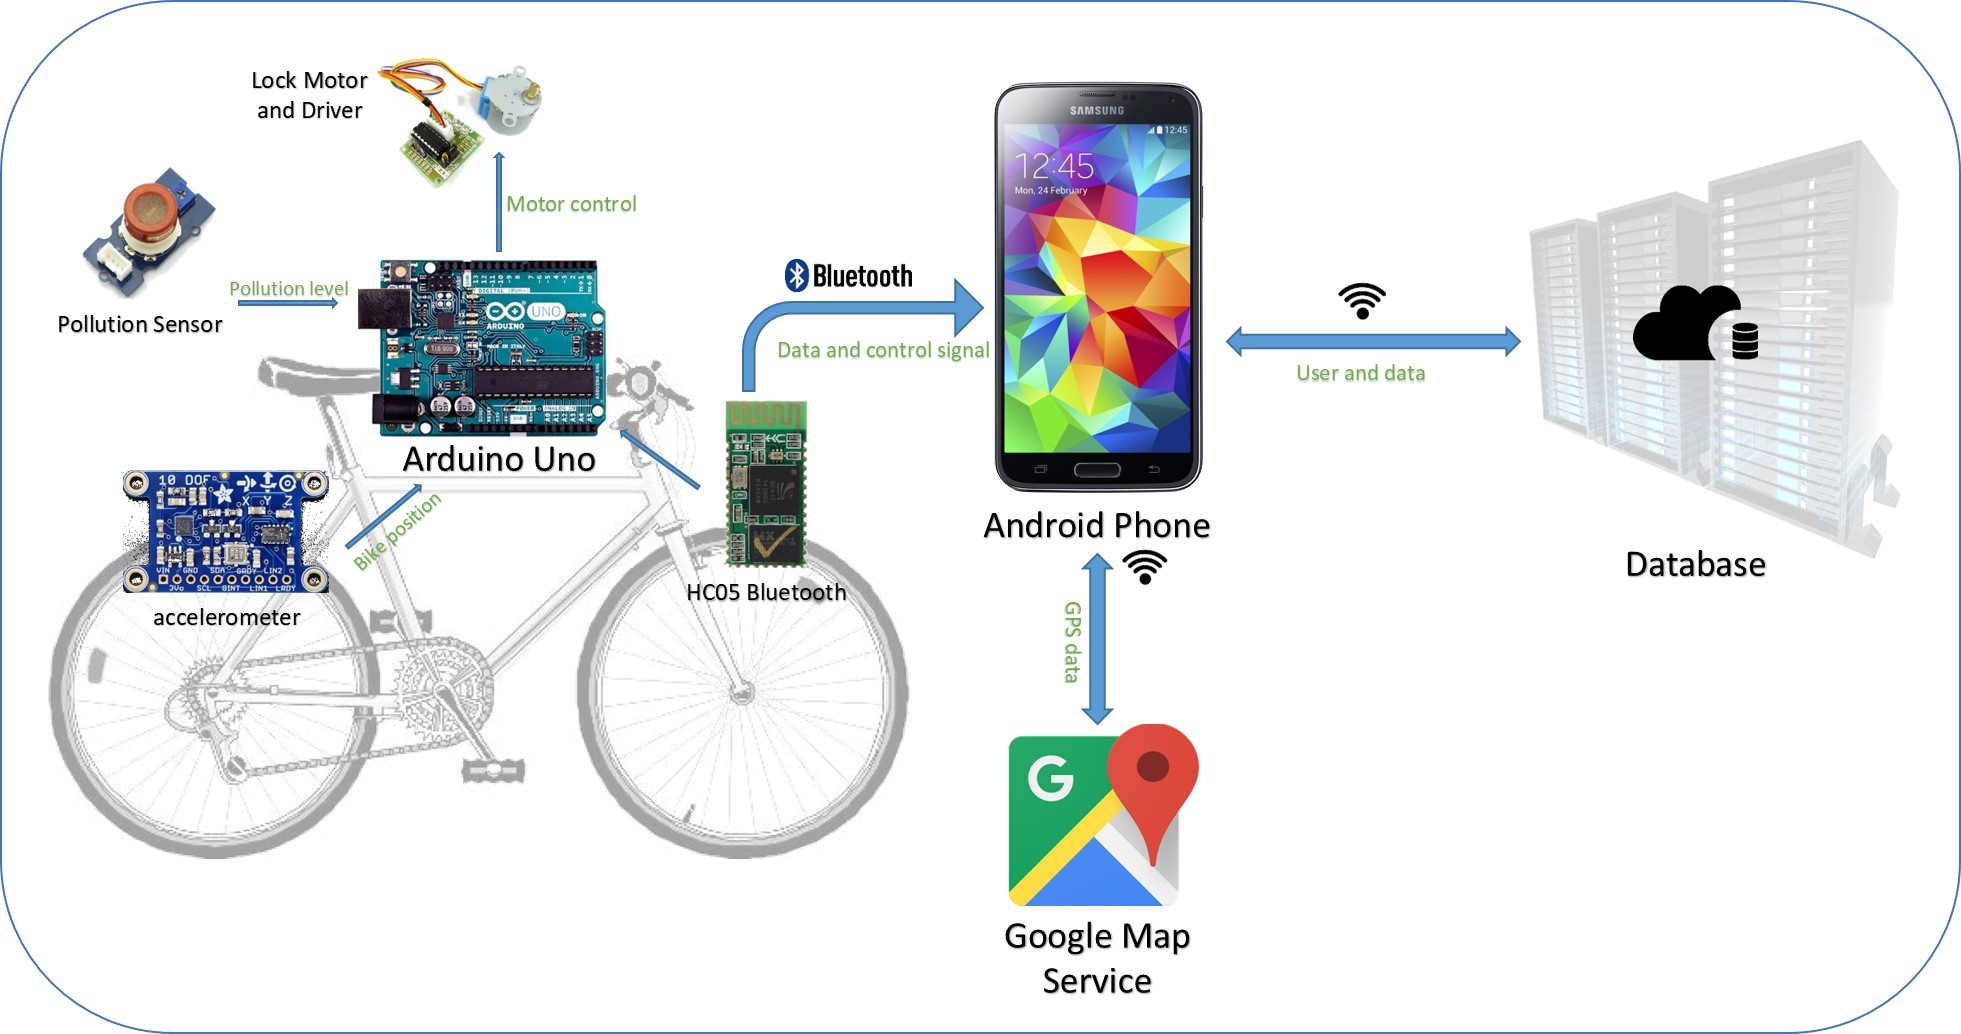
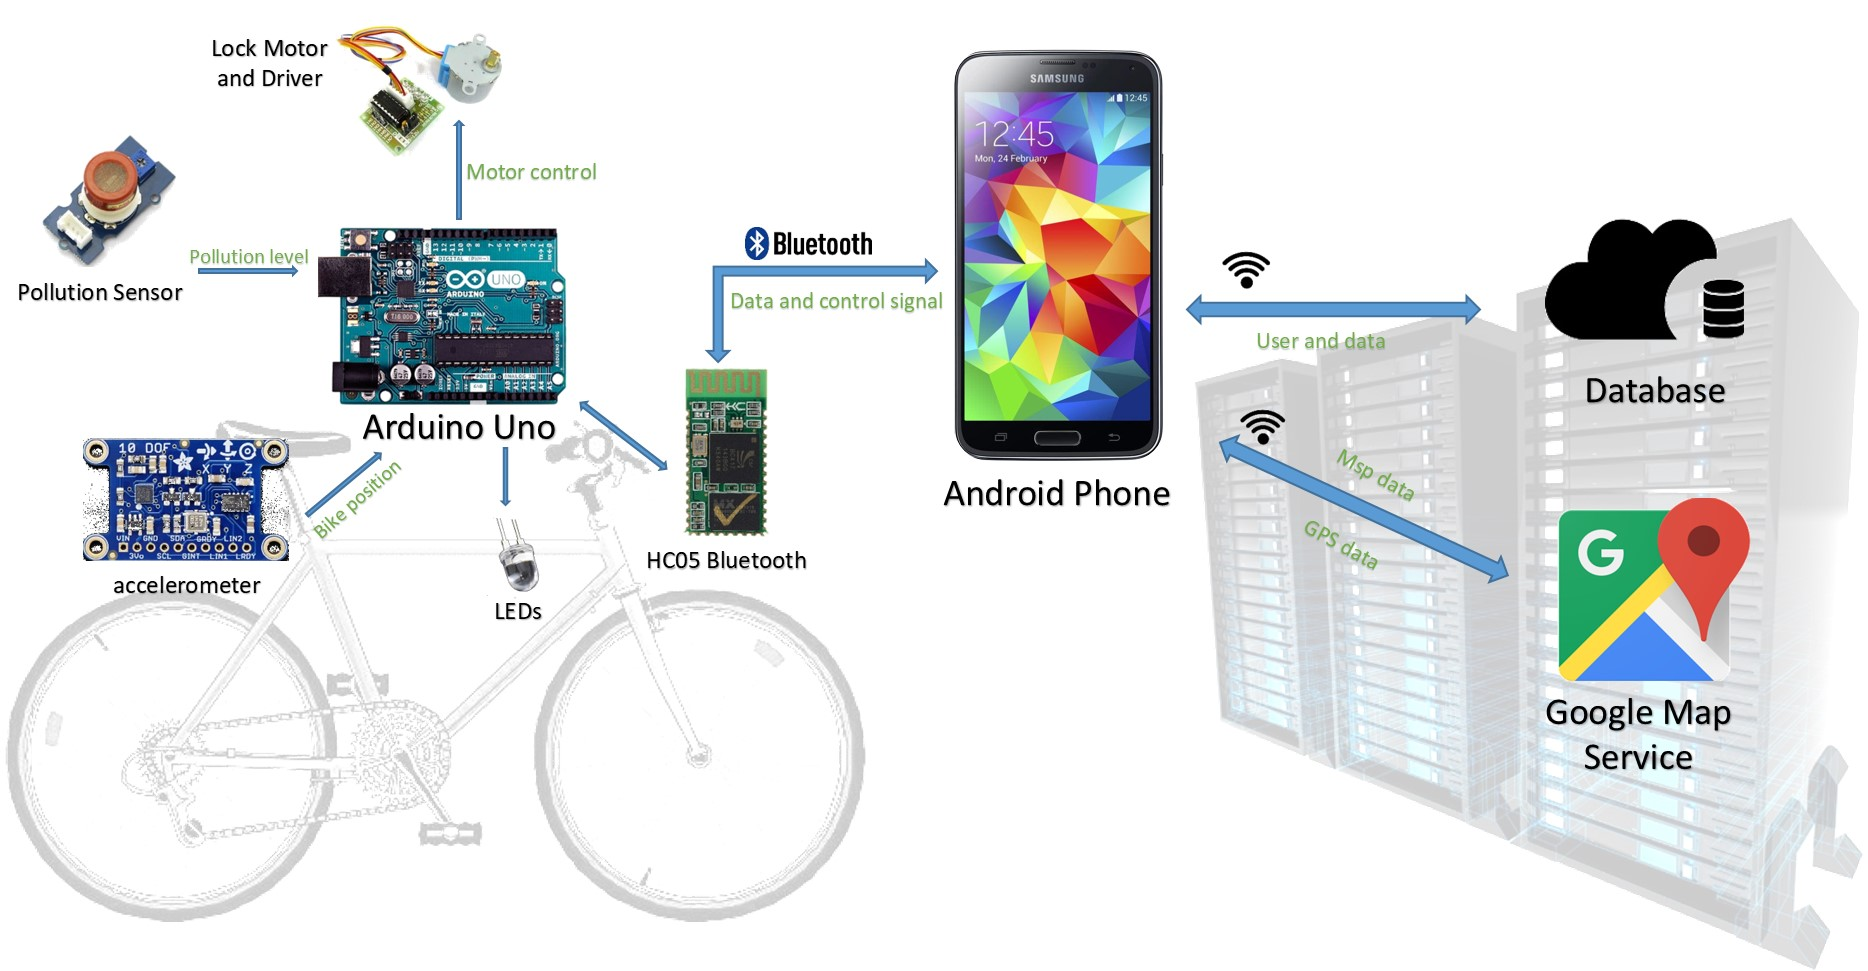
major bugs fix

diff --git a/_posts/2017-5-18-artchitecture.md b/_posts/2017-5-18-artchitecture.md
@@ -9,8 +9,8 @@ title: Architecture
 ### Computional nodes:
 * **Smartphone**: 
     * Android phone (OS version>4.4) must held by the user while using the bike.
-    * Function:Provide login and logout, exchange data with on bike Raspberry Pi by Bluetooth, provide GPS location and present bike information.
-* **Raspberry Pi**:
+    * Function:Provide login and logout, exchange data with on bike Arduino by Bluetooth, provide GPS location and present bike information.
+* **Arduino**:
 	* Installed on the bike and connected with the Bluetooth module, all the sensor and the lock.
 	* Function:  reason when to sound the siren, calculate the position (pitch, roll, yaw) from the accelerometer.
 			Calculate the pollution level from the raw data from the gas concentration sensor.
@@ -19,29 +19,34 @@ title: Architecture
 ### Devices:
 #### Sensor system:
 * **Accelerometer**:
-	* Installed on the bike and connected with the on bike Raspberry Pi. 
-	* Function: provide anti-thief function, and trigger the siren when bike is moved.
+	* Installed on the bike and connected with the on bike Arduino. 
+	* Function: provide anti-thief function, give information to the Arduino about the current posture of the bike.
 * **Gas concentration sensor**:
-	* Installed on the bike and connected with the on bike Raspberry Pi.
+	* Installed on the bike and connected with the on bike Arduino.
 	* Function: detect the concentration level of pollution gas.
 #### Actuator system:
 * **Bluetooth module**:
-	* Installed on the bike and connected with the on bike Raspberry Pi.
+	* Installed on the bike and connected with the on bike Arduino.
 	* Function: exchange data and command with the smart phone.
 * **Smart lock**:
-	* Composed of a common lock and a motor to drive the lock, Installed on the bike and connected with the on bike Raspberry Pi.
+	* Composed of a common lock and a motor to drive the lock, Installed on the bike and connected with the on bike Arduino.
 	* Function: lock the bike.
-* **Siren**:
-	* Installed on the bike and connected with the on bike Raspberry Pi.
-	* Function: make some noise to get attention.
+
 #### Supporting system
 * **Bike**
 	* Normal city bike.
-	* Function: holder for the Pi and all the sensor.
+	* Function: holder for the Arduino and all the sensor.
 * **Battery**
 	* Power bank installed on the bike 
 	* Function: power the on bike circuit.
 ### User interface
+* **Siren**:
+	* Installed on the bike and connected with the on bike Arduino.
+	* Function: Give a warning when the bike is being moved when it is locked.
+* **LEDs**:
+    * Installed on the handle of the bike and connected with the on bike Arduino.
+    * Function: Give warnings when the polution in the air is too high.
+* **Smart Phone**:
    The smart phone works both as a computational node but also as an user interface.
 
 ## Software architecture
@@ -69,12 +74,14 @@ title: Architecture
 * Running on cloud.
 * Return map of the location sent, including image pins on the location of the bike
 
-### Position and Pollution level calculation on the raspberry Pi
+### Position and Pollution level calculation on the Arduino
 *	Calculate the position (pitch, roll, yaw) from the accelerometer.
 *	Calculate the concentration of gas from the gas sensor.
 
 ### Selected components
 ####Off the shelf
+* **These is the components available in the market**
+
 |Product name| Description | Price| 
 |------------|:------|:------|
 |Arduino Uno Rev3| microcontroller board based on the ATmega328P | €20.00|
